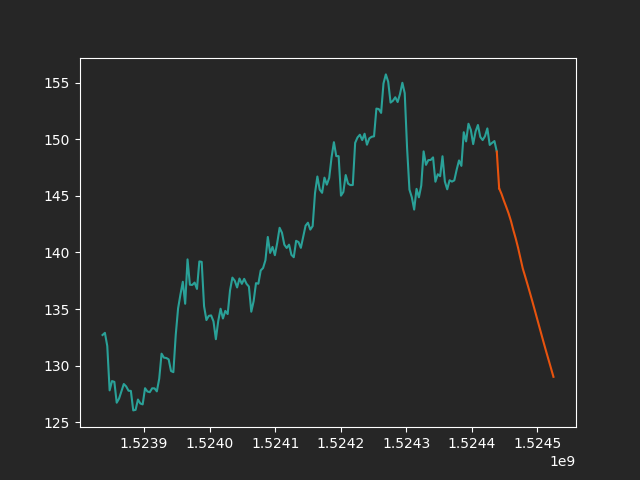
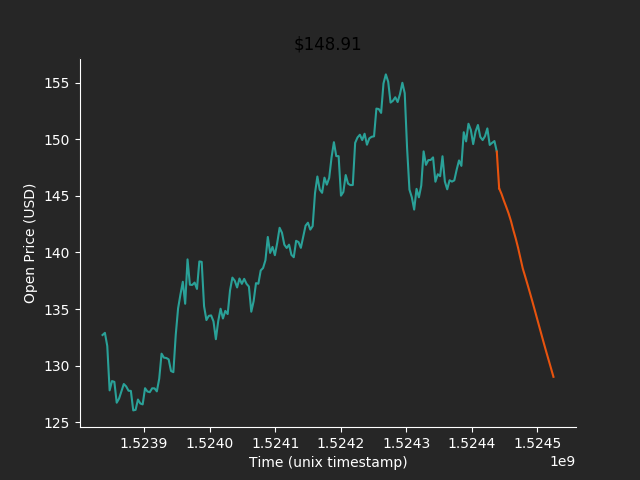
owihnwfjo

Changed region(s): [[0.375, 0.9375, 0.625, 1.0], [0.0312, 0.375, 0.0625, 0.625], [0.4688, 0.0625, 0.5625, 0.125]]

diff --git a/src/crypto_models/plot_prices.py b/src/crypto_models/plot_prices.py
@@ -60,15 +60,24 @@ def main():
     trans = past_df.tail(1).append(futr_df.head(1))
 
     # pretty up
+    plt.figure(figsize=(15,6))
     fig, back = plt.subplots(facecolor='#262626')
     ax = plt.gca()
     ax.set_facecolor('#262626')
-    for idx in ['top','bottom','left','right']:
+    plt.xlabel("Time (unix timestamp)")
+    plt.ylabel("Open Price (USD)")
+    
+    for idx in ['bottom','left']:
         ax.spines[idx].set_color('white')
+    for idx in ['top','right']:
+        ax.spines[idx].set_color('#262626')
+    
     ax.xaxis.label.set_color('white')
     ax.yaxis.label.set_color('white')
     ax.tick_params(axis='x', colors='white')
     ax.tick_params(axis='y', colors='white')
+
+    plt.title("$"+str(past_df['open'][len(past_df)-1]))
     
     # plot lines
     plt.plot(past_times, past_df['open'], '#2AA198')
